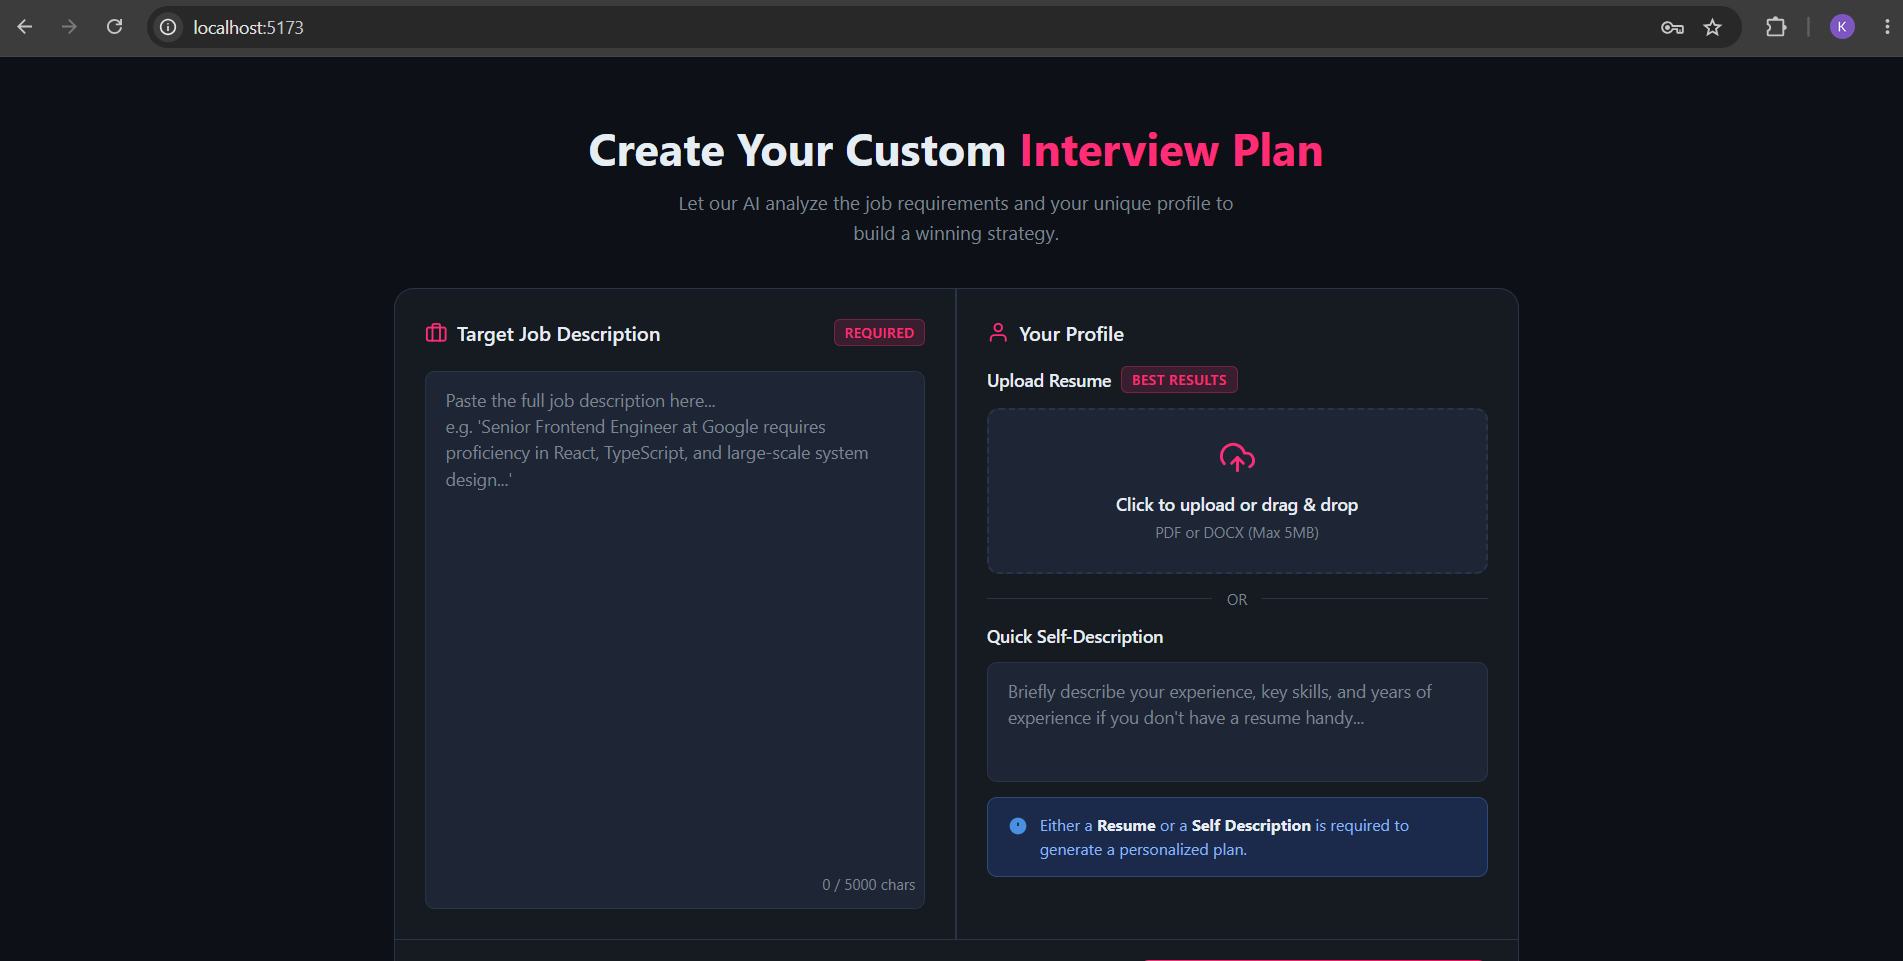
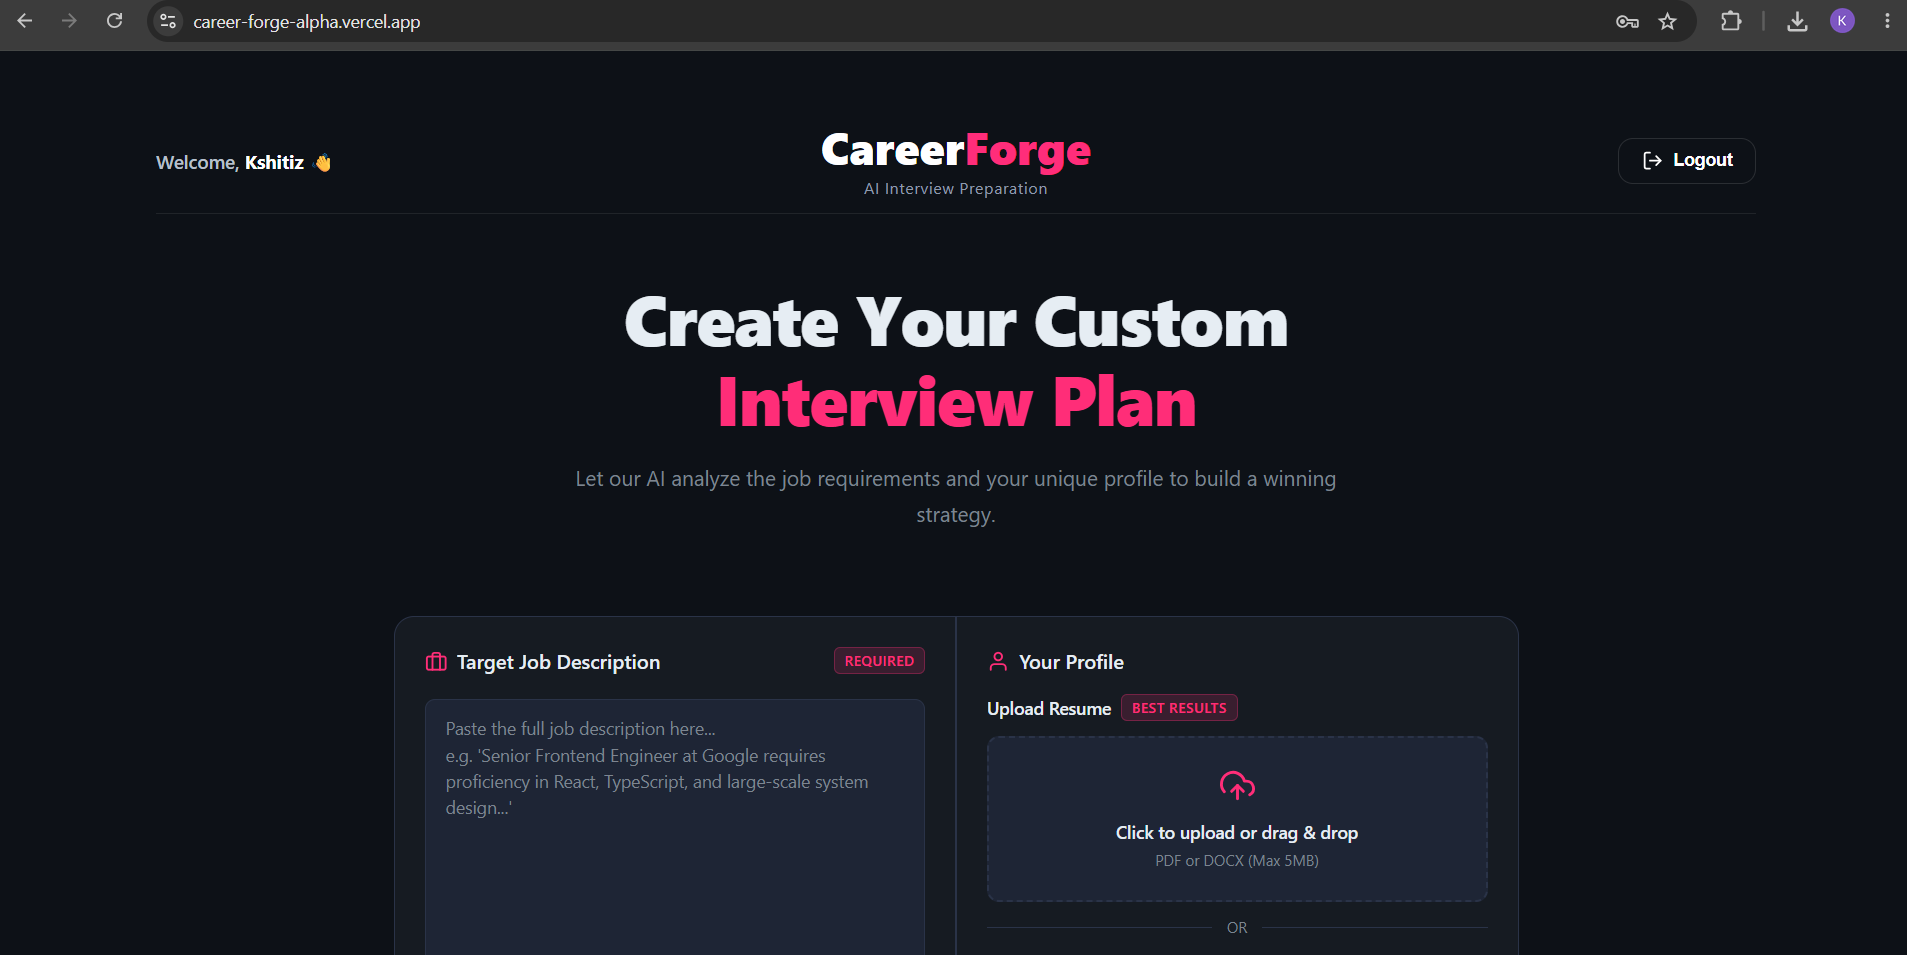
Updated Readme

diff --git a/Readme.md b/Readme.md
@@ -10,7 +10,7 @@ It provides recruiter-style resume analysis, ATS scoring, AI-generated interview
 
 ### Home Page
 
-![Home](./assets/home.png)
+![Home](./assets/Home.png)
 
 ### Login
 
